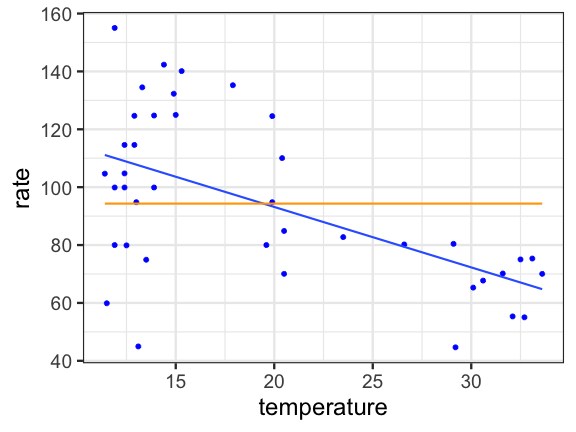
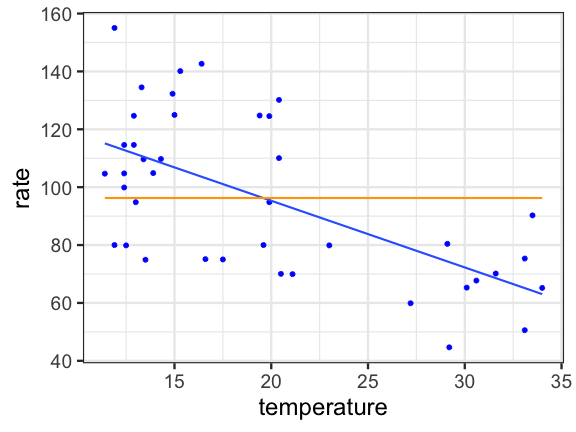
Update with conclusion

diff --git a/lectures/crossvalidation.html b/lectures/crossvalidation.html
@@ -185,13 +185,13 @@ class: center, middle
 RMSE Temperature Model:
 
 ```
-[1] 22.23124
+[1] 27.14688
 ```
 
 RMSE Intercept Only Model:
 
 ```
-[1] 27.15437
+[1] 30.39648
 ```
 
 This is the estimate of the SD of the training set - which is acceptable for your predictions?
@@ -239,13 +239,13 @@ class: center, middle
 
 |id    |      mse|     rmse|
 |:-----|--------:|--------:|
-|Fold1 | 555.5479| 23.57006|
-|Fold2 | 551.2158| 23.47798|
-|Fold3 | 515.6355| 22.70761|
-|Fold4 | 530.8764| 23.04076|
-|Fold5 | 512.1248| 22.63018|
+|Fold1 | 556.4524| 23.58924|
+|Fold2 | 546.9447| 23.38685|
+|Fold3 | 465.6191| 21.57821|
+|Fold4 | 520.2648| 22.80931|
+|Fold5 | 578.0592| 24.04286|
 
-Temperature Model Score: 533.0800816  
+Temperature Model Score: 533.4680436  
 
 Intercept Only Score: 788.2974 &lt;!-- eh, I was lazy, and just reran the above with a different model --&gt;
 
@@ -568,6 +568,20 @@ Model weights summed together = 1
   &lt;/tr&gt;
 &lt;/tbody&gt;
 &lt;/table&gt;
+
+.center[So... how much better are the top models? What about Parsimody? What would you say?]
+
+---
+# Inferential Frameworks of Today
+
+- **Cross-Validation**: How good are you at predicting new data?
+      - Deductive
+      - Chose model with best predictive ability!
+      
+- **Model Comparison**: Comparison of alternate hypotheses
+      - Deductive or Inductive
+      - Either compare models to elminiate poor fits
+      - Or... compare multiple models to determine how a system works
     </textarea>
 <style data-target="print-only">@media screen {.remark-slide-container{display:block;}.remark-slide-scaler{box-shadow:none;}}</style>
 <script src="https://remarkjs.com/downloads/remark-latest.min.js"></script>
